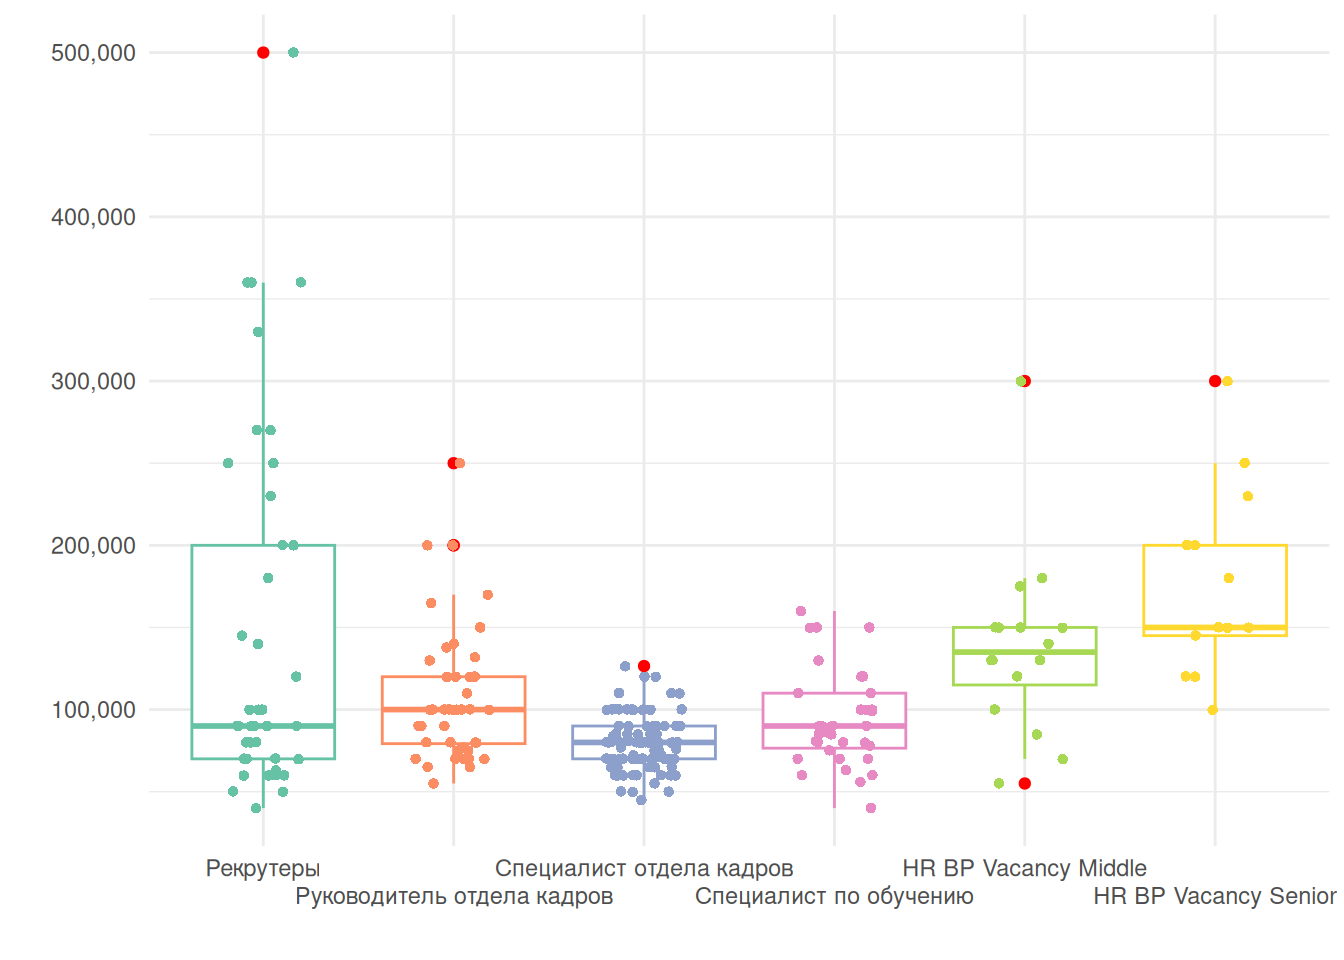
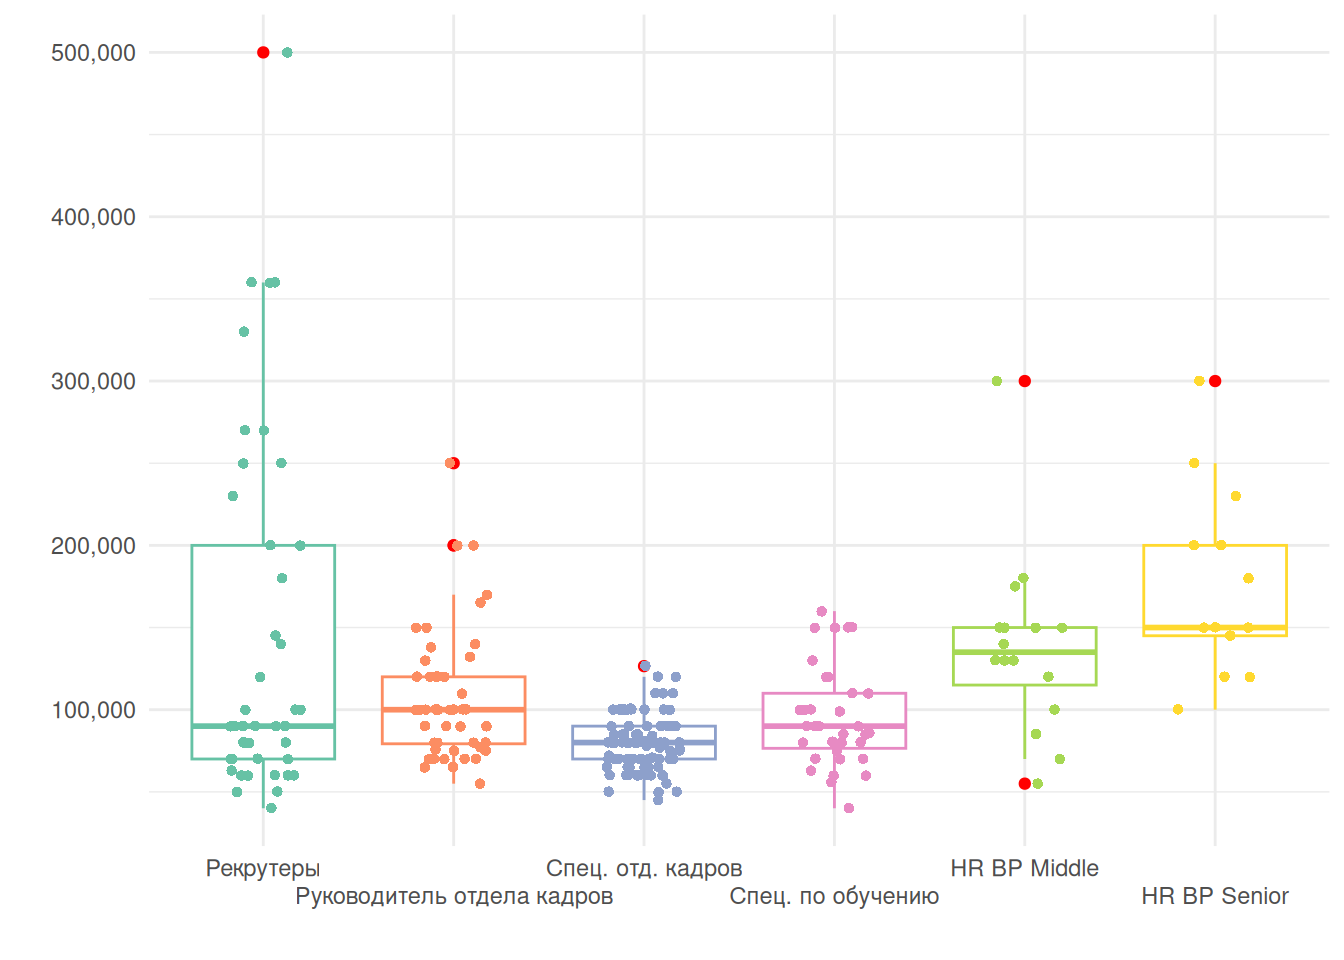
06.03.2024

diff --git a/docs/Hr-analytics.html b/docs/Hr-analytics.html
@@ -2407,62 +2407,62 @@ pre > code.sourceCode > span > a:first-child::before { text-decoration: underlin
 <table class="lightable-material table table-sm table-striped small" data-quarto-postprocess="true">
 <thead>
 <tr class="header">
-<th data-quarto-table-cell-role="th" style="text-align: left; position: sticky; top: 0; background-color: #FFFFFF;">Руководитель отдела кадров</th>
-<th data-quarto-table-cell-role="th" style="text-align: left; position: sticky; top: 0; background-color: #FFFFFF;">HR BP Vacancy Senior</th>
-<th data-quarto-table-cell-role="th" style="text-align: left; position: sticky; top: 0; background-color: #FFFFFF;">HR BP Vacancy Middle</th>
 <th data-quarto-table-cell-role="th" style="text-align: left; position: sticky; top: 0; background-color: #FFFFFF;">Рекрутеры</th>
-<th data-quarto-table-cell-role="th" style="text-align: left; position: sticky; top: 0; background-color: #FFFFFF;">Специалист по обучению</th>
-<th data-quarto-table-cell-role="th" style="text-align: left; position: sticky; top: 0; background-color: #FFFFFF;">Специалист отдела кадров</th>
+<th data-quarto-table-cell-role="th" style="text-align: left; position: sticky; top: 0; background-color: #FFFFFF;">Руководитель отдела кадров</th>
+<th data-quarto-table-cell-role="th" style="text-align: left; position: sticky; top: 0; background-color: #FFFFFF;">Спец. отд. кадров</th>
+<th data-quarto-table-cell-role="th" style="text-align: left; position: sticky; top: 0; background-color: #FFFFFF;">Спец. по обучению</th>
+<th data-quarto-table-cell-role="th" style="text-align: left; position: sticky; top: 0; background-color: #FFFFFF;">HR BP Middle</th>
+<th data-quarto-table-cell-role="th" style="text-align: left; position: sticky; top: 0; background-color: #FFFFFF;">HR BP Senior</th>
 </tr>
 </thead>
 <tbody>
 <tr class="odd">
+<td style="text-align: left;">Min. : 40000</td>
+<td style="text-align: left;">Min. : 55000</td>
+<td style="text-align: left;">Min. : 45000</td>
+<td style="text-align: left;">Min. : 40000</td>
 <td style="text-align: left;">Min. : 55000</td>
 <td style="text-align: left;">Min. :100000</td>
-<td style="text-align: left;">Min. : 55000</td>
-<td style="text-align: left;">Min. : 40000</td>
-<td style="text-align: left;">Min. : 40000</td>
-<td style="text-align: left;">Min. : 45000</td>
 </tr>
 <tr class="even">
+<td style="text-align: left;">1st Qu.: 70000</td>
 <td style="text-align: left;">1st Qu.: 79250</td>
-<td style="text-align: left;">1st Qu.:145000</td>
-<td style="text-align: left;">1st Qu.:115000</td>
 <td style="text-align: left;">1st Qu.: 70000</td>
 <td style="text-align: left;">1st Qu.: 76500</td>
-<td style="text-align: left;">1st Qu.: 70000</td>
+<td style="text-align: left;">1st Qu.:115000</td>
+<td style="text-align: left;">1st Qu.:145000</td>
 </tr>
 <tr class="odd">
+<td style="text-align: left;">Median : 90000</td>
 <td style="text-align: left;">Median :100000</td>
-<td style="text-align: left;">Median :150000</td>
-<td style="text-align: left;">Median :135000</td>
-<td style="text-align: left;">Median : 90000</td>
-<td style="text-align: left;">Median : 90000</td>
 <td style="text-align: left;">Median : 80000</td>
+<td style="text-align: left;">Median : 90000</td>
+<td style="text-align: left;">Median :135000</td>
+<td style="text-align: left;">Median :150000</td>
 </tr>
 <tr class="even">
-<td style="text-align: left;">Mean :107354</td>
-<td style="text-align: left;">Mean :176538</td>
-<td style="text-align: left;">Mean :138438</td>
 <td style="text-align: left;">Mean :145429</td>
-<td style="text-align: left;">Mean : 95071</td>
+<td style="text-align: left;">Mean :107354</td>
 <td style="text-align: left;">Mean : 79330</td>
+<td style="text-align: left;">Mean : 95071</td>
+<td style="text-align: left;">Mean :138438</td>
+<td style="text-align: left;">Mean :176538</td>
 </tr>
 <tr class="odd">
-<td style="text-align: left;">3rd Qu.:120000</td>
 <td style="text-align: left;">3rd Qu.:200000</td>
+<td style="text-align: left;">3rd Qu.:120000</td>
+<td style="text-align: left;">3rd Qu.: 90000</td>
+<td style="text-align: left;">3rd Qu.:110000</td>
 <td style="text-align: left;">3rd Qu.:150000</td>
 <td style="text-align: left;">3rd Qu.:200000</td>
-<td style="text-align: left;">3rd Qu.:110000</td>
-<td style="text-align: left;">3rd Qu.: 90000</td>
 </tr>
 <tr class="even">
-<td style="text-align: left;">Max. :250000</td>
-<td style="text-align: left;">Max. :300000</td>
-<td style="text-align: left;">Max. :300000</td>
 <td style="text-align: left;">Max. :500000</td>
-<td style="text-align: left;">Max. :160000</td>
+<td style="text-align: left;">Max. :250000</td>
 <td style="text-align: left;">Max. :126500</td>
+<td style="text-align: left;">Max. :160000</td>
+<td style="text-align: left;">Max. :300000</td>
+<td style="text-align: left;">Max. :300000</td>
 </tr>
 </tbody>
 </table>
@@ -3041,11 +3041,11 @@ window.document.addEventListener("DOMContentLoaded", function (event) {
 <span id="cb1-141"><a href="#cb1-141" aria-hidden="true" tabindex="-1"></a>r1 <span class="ot">&lt;-</span> <span class="fu">gather</span>(kadry[ ,<span class="dv">1</span>])</span>
 <span id="cb1-142"><a href="#cb1-142" aria-hidden="true" tabindex="-1"></a></span>
 <span id="cb1-143"><a href="#cb1-143" aria-hidden="true" tabindex="-1"></a>j1<span class="sc">$</span>key <span class="ot">&lt;-</span> <span class="fu">paste0</span>(<span class="st">"Руководитель отдела кадров"</span>)</span>
-<span id="cb1-144"><a href="#cb1-144" aria-hidden="true" tabindex="-1"></a>m1<span class="sc">$</span>key <span class="ot">&lt;-</span> <span class="fu">paste0</span>(<span class="st">"HR BP Vacancy Senior"</span>)</span>
-<span id="cb1-145"><a href="#cb1-145" aria-hidden="true" tabindex="-1"></a>s1<span class="sc">$</span>key <span class="ot">&lt;-</span> <span class="fu">paste0</span>(<span class="st">"HR BP Vacancy Middle"</span>)</span>
+<span id="cb1-144"><a href="#cb1-144" aria-hidden="true" tabindex="-1"></a>m1<span class="sc">$</span>key <span class="ot">&lt;-</span> <span class="fu">paste0</span>(<span class="st">"HR BP Senior"</span>)</span>
+<span id="cb1-145"><a href="#cb1-145" aria-hidden="true" tabindex="-1"></a>s1<span class="sc">$</span>key <span class="ot">&lt;-</span> <span class="fu">paste0</span>(<span class="st">"HR BP Middle"</span>)</span>
 <span id="cb1-146"><a href="#cb1-146" aria-hidden="true" tabindex="-1"></a>t1<span class="sc">$</span>key <span class="ot">&lt;-</span> <span class="fu">paste0</span>(<span class="st">"Рекрутеры"</span>)</span>
-<span id="cb1-147"><a href="#cb1-147" aria-hidden="true" tabindex="-1"></a>h1<span class="sc">$</span>key <span class="ot">&lt;-</span> <span class="fu">paste0</span>(<span class="st">"Специалист по обучению"</span>)</span>
-<span id="cb1-148"><a href="#cb1-148" aria-hidden="true" tabindex="-1"></a>r1<span class="sc">$</span>key <span class="ot">&lt;-</span> <span class="fu">paste0</span>(<span class="st">"Специалист отдела кадров"</span>)</span>
+<span id="cb1-147"><a href="#cb1-147" aria-hidden="true" tabindex="-1"></a>h1<span class="sc">$</span>key <span class="ot">&lt;-</span> <span class="fu">paste0</span>(<span class="st">"Спец. по обучению"</span>)</span>
+<span id="cb1-148"><a href="#cb1-148" aria-hidden="true" tabindex="-1"></a>r1<span class="sc">$</span>key <span class="ot">&lt;-</span> <span class="fu">paste0</span>(<span class="st">"Спец. отд. кадров"</span>)</span>
 <span id="cb1-149"><a href="#cb1-149" aria-hidden="true" tabindex="-1"></a></span>
 <span id="cb1-150"><a href="#cb1-150" aria-hidden="true" tabindex="-1"></a>q <span class="ot">&lt;-</span> <span class="fu">rbind2</span>(j1, m1, <span class="at">by=</span><span class="st">"key"</span>, <span class="at">all.x=</span>T, <span class="at">sort=</span>F)</span>
 <span id="cb1-151"><a href="#cb1-151" aria-hidden="true" tabindex="-1"></a>q1 <span class="ot">&lt;-</span> <span class="fu">rbind2</span>(s1, t1, <span class="at">by=</span><span class="st">"key"</span>, <span class="at">all.x=</span>T, <span class="at">sort=</span>F)</span>
@@ -3077,7 +3077,7 @@ window.document.addEventListener("DOMContentLoaded", function (event) {
 <span id="cb1-179"><a href="#cb1-179" aria-hidden="true" tabindex="-1"></a>h <span class="ot">&lt;-</span> <span class="fu">summary</span>(h1[<span class="dv">2</span>])</span>
 <span id="cb1-180"><a href="#cb1-180" aria-hidden="true" tabindex="-1"></a>r <span class="ot">&lt;-</span> <span class="fu">summary</span>(r1[<span class="dv">2</span>])</span>
 <span id="cb1-181"><a href="#cb1-181" aria-hidden="true" tabindex="-1"></a></span>
-<span id="cb1-182"><a href="#cb1-182" aria-hidden="true" tabindex="-1"></a>vac <span class="ot">&lt;-</span> <span class="fu">tibble</span>(<span class="st">"Руководитель отдела кадров"</span> <span class="ot">=</span> j, <span class="st">"HR BP Vacancy Senior"</span> <span class="ot">=</span> m, <span class="st">"HR BP Vacancy Middle"</span> <span class="ot">=</span> s, <span class="st">"Рекрутеры"</span> <span class="ot">=</span> t, <span class="st">"Специалист по обучению"</span> <span class="ot">=</span> h, <span class="st">"Специалист отдела кадров"</span> <span class="ot">=</span> r)</span>
+<span id="cb1-182"><a href="#cb1-182" aria-hidden="true" tabindex="-1"></a>vac <span class="ot">&lt;-</span> <span class="fu">tibble</span>(<span class="st">"Рекрутеры"</span> <span class="ot">=</span> t, <span class="st">"Руководитель отдела кадров"</span> <span class="ot">=</span> j, <span class="st">"Спец. отд. кадров"</span> <span class="ot">=</span> r, <span class="st">"Спец. по обучению"</span> <span class="ot">=</span> h, <span class="st">"HR BP Middle"</span> <span class="ot">=</span> s, <span class="st">"HR BP Senior"</span> <span class="ot">=</span> m)</span>
 <span id="cb1-183"><a href="#cb1-183" aria-hidden="true" tabindex="-1"></a></span>
 <span id="cb1-184"><a href="#cb1-184" aria-hidden="true" tabindex="-1"></a><span class="fu">kbl</span>(vac) <span class="sc">|&gt;</span> </span>
 <span id="cb1-185"><a href="#cb1-185" aria-hidden="true" tabindex="-1"></a>  <span class="fu">kable_material</span>() <span class="sc">|&gt;</span> </span>
